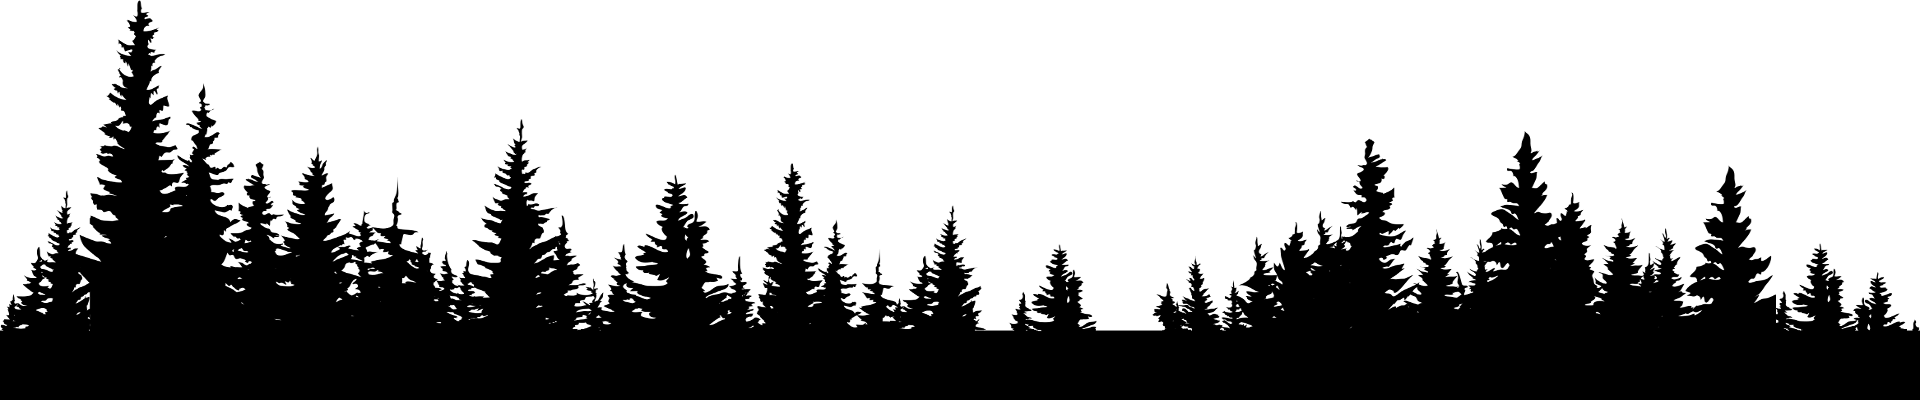
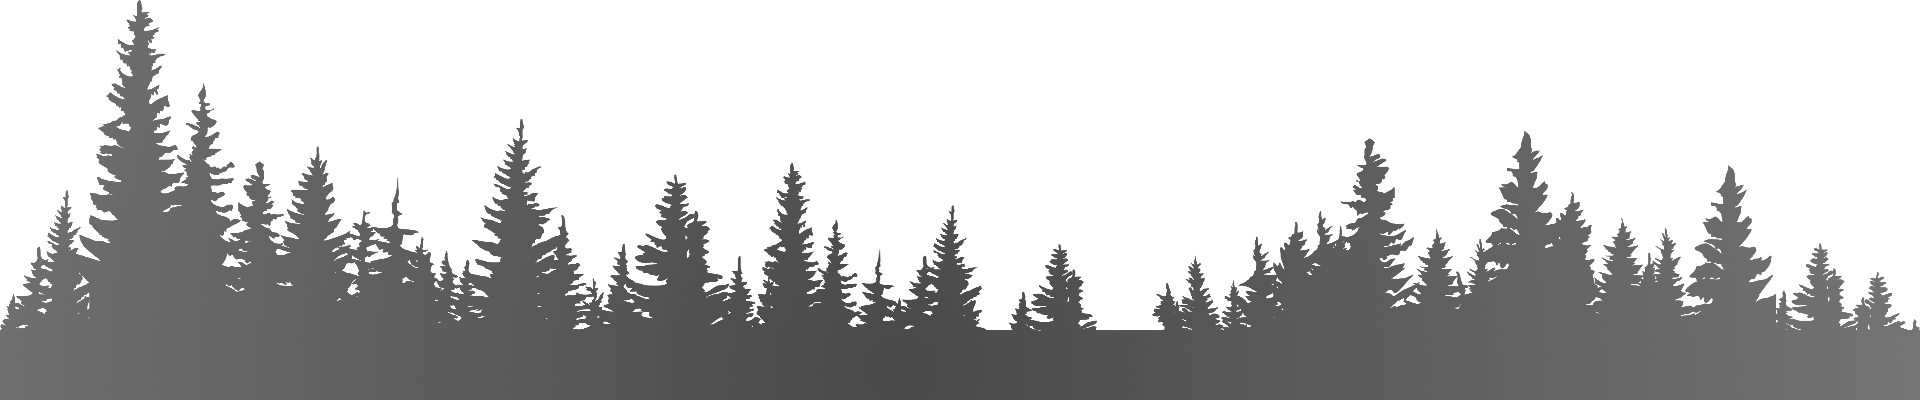
feat: change forest color

diff --git a/README.md b/README.md
@@ -1,3 +1,13 @@
-<div style="text-align: center"><img width=100% src="./assets/forest.png"/></div>
+<div style="text-align: center">
+  <img width="100%" src="./assets/forest.png" />
+</div>
 
 <h1 align="center">Hello - Hallo - Glad to see you here!</h1>
+
+<!-- <p>
+ I'm Julian, a 22 year old Node developer from Southern Germany
+</p> -->
+
+<!-- <div style="text-align: center">
+  <img src="./assets/me.png" />
+</div> -->
